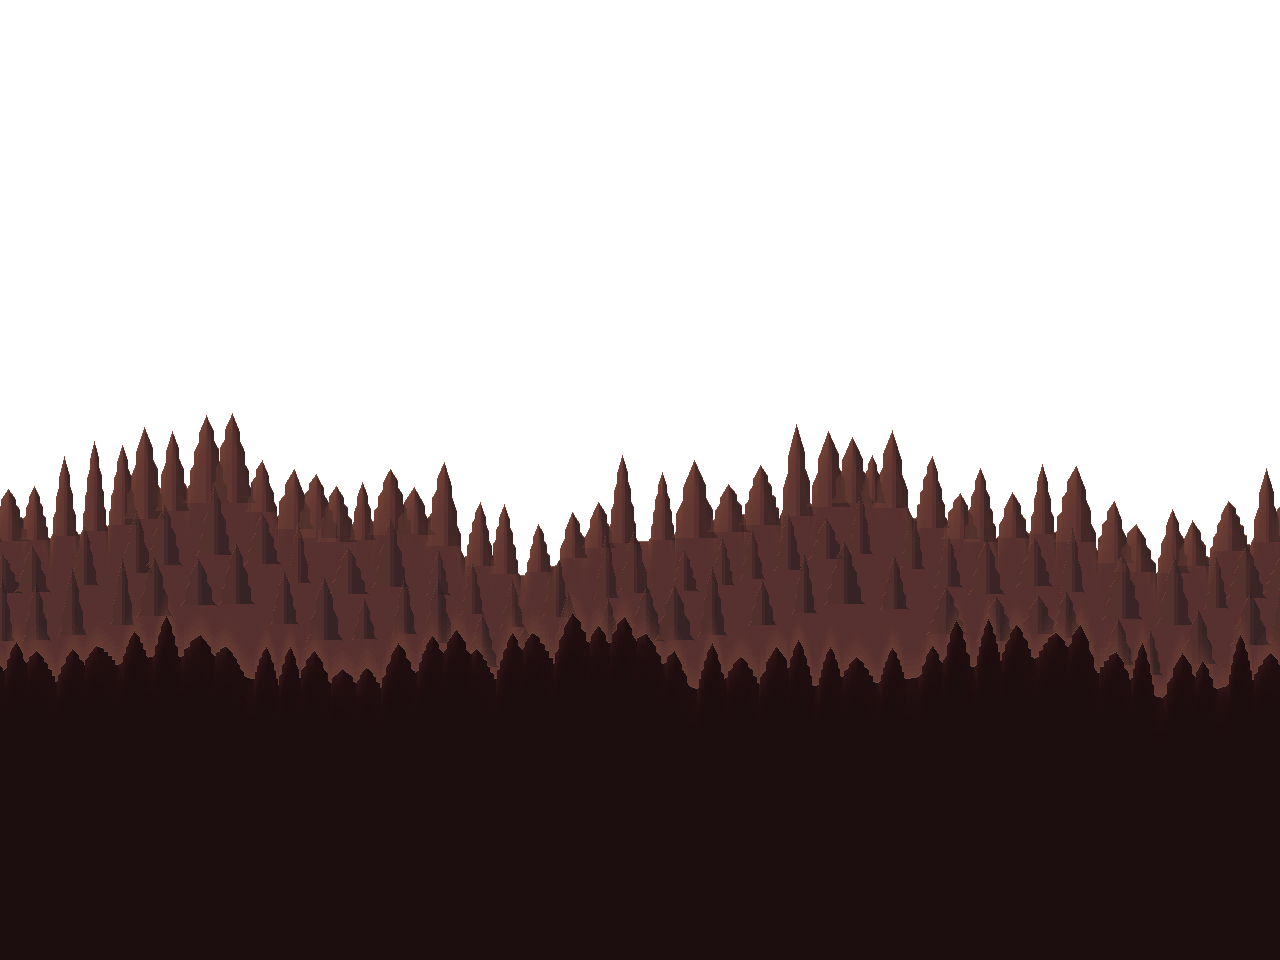
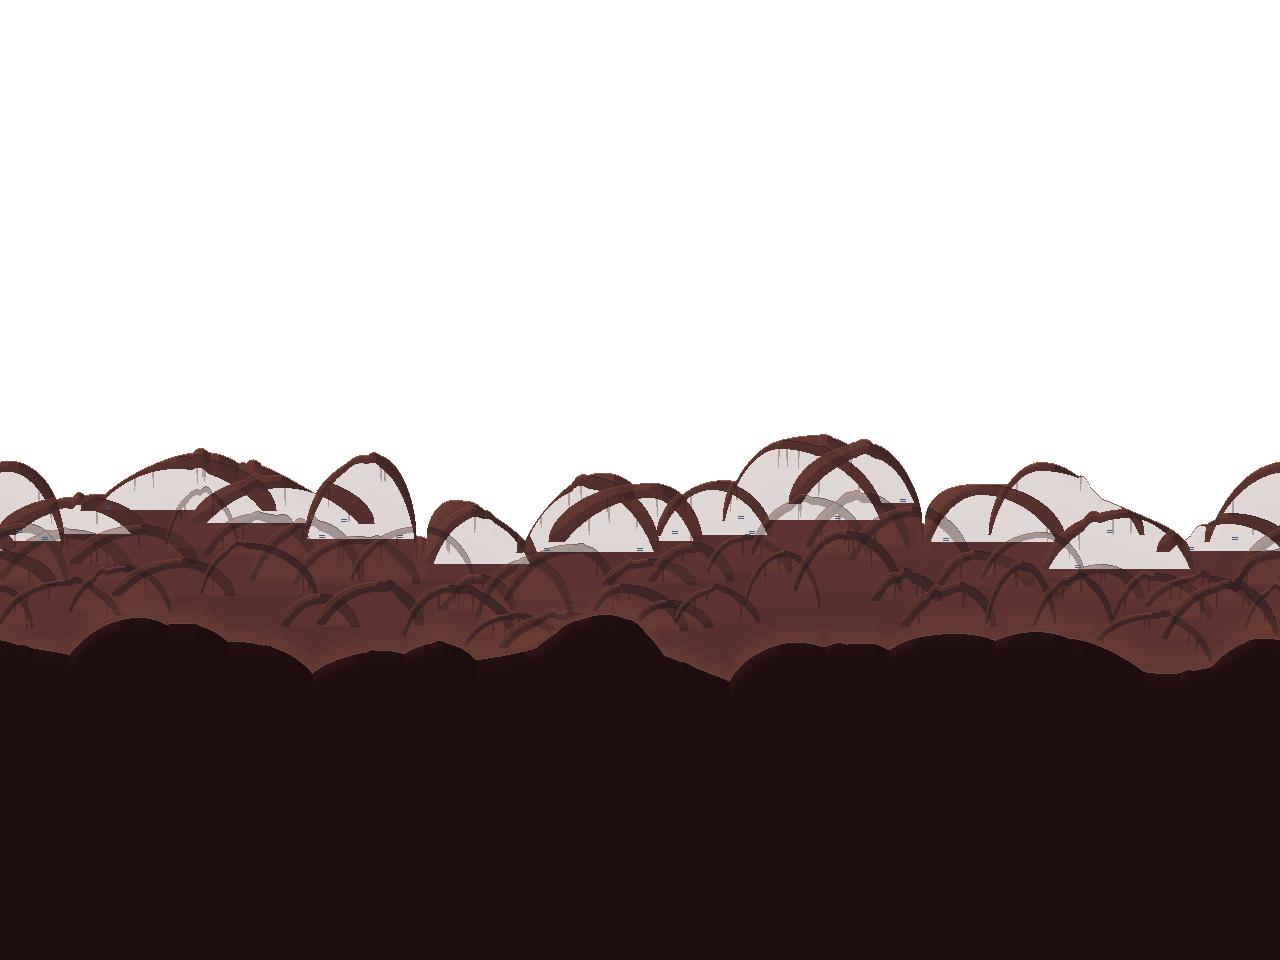
Pass 642: the Heartwood stands on roots of its own
The pass 640 grade saw the same pine band behind five areas: the Heartwood
shared the High Boughs' fir ridge. Its ridge is now a row of great arching
roots, the far layer showing through each arch, with two inner rows of
roots in depth and dim fungus at their feet (design bible 12.118).

Changed region(s): [[0.0, 0.4375, 1.0, 0.7188]]

diff --git a/tools/art/tilegen.py b/tools/art/tilegen.py
@@ -3406,7 +3406,9 @@ def foreground(zone):
 # crystal halls, broken crags over the stone towers, battlemented roofs over the
 # hearth towns, low mounds over the marsh springs.
 RIDGE_KIND = {
-    "heartwood": "fir", "boughs": "fir",
+    # The Heartwood stands on great arching roots of its own (pass 642, 12.118): it
+    # shared the High Boughs' firs, and the pass 640 grade saw one pine band behind both.
+    "heartwood": "root", "boughs": "fir",
     "haar": "mound", "sunken": "mound",
     "evercrown": "shard", "vorrhallow": "shard",
     "tower": "crag", "trials": "crag",
@@ -3630,6 +3632,141 @@ def _spire_span(rng, a, b, roll, roofs, whole):
     return {"form": "span", "deck": deck, "under": under, "solid": solid, "whole": whole}
 
 
+# The Heartwood's roots (bible 12.118, pass 642). The pass 640 grade saw "the same pine
+# band" behind five areas: the Heartwood, a hollow under one great tree, stood on the
+# High Boughs' firs. It now stands on a row of great roots, each arching out of the
+# ground and back in, broad at its buttressed feet and thin at its crown. The root is
+# darker than the plane and the far haze shows through the arch under it, with
+# rootlets hanging into it and fungus glowing at its feet; two inner rows of smaller
+# roots stand lower in the plane, each darker than the last.
+ROOT_HALF = (24, 52)    # an arch's half-width to each foot, px at 1x (each side its own)
+ROOT_PEAK = (18, 44)    # its crown's height above the ground
+ROOT_THICK = (4, 7)     # the root's thickness at the crown; its feet flare to more than twice that
+ROOT_STEP = (30, 56)    # from one arch to the next, so neighbours cross at the feet
+ROOT_FLARE = 1.6        # how much thicker a root grows toward its feet
+ROOT_BODY_A = (70, 120, 160)  # a root's body, the seam over the plane: the crest row, then the inner rows
+ROOT_ROW_DROP = (22 * D, 44 * D)  # the inner rows: how far below the ground line they stand
+ROOT_ROW_SCALE = 0.7    # their size, as a share of a crest root's
+ROOT_HAZE_A = 44        # the far haze in the arch under a root, in the rim
+ROOT_LIT_A = 90         # the west half of a root's back catches the light
+ROOTLET_A = 110         # the rootlets hanging into the arch, in the seam
+ROOT_SEE_A = 48         # the plane's alpha in the arch under a crest root: the far layer shows through
+
+
+def _root_crown(r, dx):
+    """A root arch's back, px above the ground at `dx` from its crown (-1 past its feet)."""
+    half = r["west"] if dx < 0 else r["east"]
+    k = abs(dx) / half
+    if k > 1:
+        return -1.0
+    return r["peak"] * (1 - k * k) ** 0.55 + r["knots"].get(dx, 0.0)
+
+
+def _root_under(r, dx):
+    """The underside of the arch at `dx`: the crown less the root's thickness, which
+    flares toward the feet (a buttress), never under the ground."""
+    half = r["west"] if dx < 0 else r["east"]
+    k = abs(dx) / half
+    return max(0.0, _root_crown(r, dx) - r["thick"] * (1 + ROOT_FLARE * k * k))
+
+
+def _root_make(cx, rng, scale=1.0):
+    r = {"form": "root", "x": cx, "west": int(rng.randint(*ROOT_HALF) * D * scale),
+         "east": int(rng.randint(*ROOT_HALF) * D * scale), "peak": int(rng.randint(*ROOT_PEAK) * D * scale),
+         "thick": max(2 * D, int(rng.randint(*ROOT_THICK) * D * scale)), "knots": {}}
+    for _ in range(rng.randint(0, 2)):
+        at, w, hgt = rng.randint(-r["west"] // 2, r["east"] // 2), rng.randint(3, 5) * D, rng.randint(1, 2) * D
+        for o in range(-w, w + 1):
+            r["knots"][at + o] = max(r["knots"].get(at + o, 0.0), hgt * (1 - (o / w) ** 2))
+    return r
+
+
+def _root_arch(teeth, cx, rng):
+    """A great root arching from the ground to its crown at `cx` and back, into `teeth`
+    (indices wrap); each side has its own reach, so it leans, and a knot or two swells
+    its back."""
+    r = _root_make(cx, rng)
+    for dx in range(-r["west"], r["east"] + 1):
+        v = _root_crown(r, dx)
+        if v >= 0:
+            i = (cx + dx) % BG_W
+            teeth[i] = max(teeth[i], v)
+    return r
+
+
+def _root_paint(img, r, foot, far_tops, near_tops, rim, seam, body_a, rng):
+    """One root standing on canvas row `foot`: its body in the seam, its west back lit,
+    the far haze in the arch under it, rootlets hanging into the arch."""
+    for dx in range(-r["west"], r["east"] + 1):
+        v = _root_crown(r, dx)
+        if v < 0:
+            continue
+        x = (r["x"] + dx) % BG_W
+        top, under = foot - int(round(v)), foot - int(round(_root_under(r, dx)))
+        lo = min(foot, near_tops[x] - 2 * D, BG_H)
+        for y in range(max(top, far_tops[x] + 1, 0), lo):
+            if not img.getpixel((x, y))[3]:
+                continue
+            if y > under:
+                _over(img, x, y, rim, ROOT_HAZE_A)
+                continue
+            _over(img, x, y, seam, body_a)
+            if dx < 0 and y < top + max(D, (under - top) // 2):
+                _over(img, x, y, rim, ROOT_LIT_A)
+        if far_tops[x] < top < lo and img.getpixel((x, top))[3]:
+            _over(img, x, top, rim if dx < 0 else seam, 170)
+        if under < lo and hash2(x // D, r["x"], 78) > 0.94:
+            for y in range(under + 1, min(lo, under + 1 + rng.randint(3, 9) * D)):
+                _over(img, x, y, seam, ROOTLET_A)
+
+
+def _root_detail(img, roots, ground, far_tops, near_tops, rim, seam, light, rng):
+    """The roots in the far plane (12.118): the crest's roots, then two inner rows of
+    smaller ones lower and darker, and fungus glowing at a foot or two. Only inside
+    the plane, under its crest and above the valley mist."""
+    rows = [[(r, RIDGE_BASE - int(round(ground[r["x"] % BG_W]))) for r in roots]]
+    for drop in ROOT_ROW_DROP:
+        row, x = [], rng.randint(0, 20) * D
+        while x < BG_W:
+            row.append((_root_make(x, rng, ROOT_ROW_SCALE), RIDGE_BASE - int(round(ground[x % BG_W])) + drop))
+            x += int(rng.randint(*ROOT_STEP) * D * ROOT_ROW_SCALE)
+        rows.append(row)
+    # Under a crest root's arch the plane thins, so the far layer shows through it,
+    # except where another root's body crosses the arch.
+    body, hollow = [set() for _ in range(BG_W)], [set() for _ in range(BG_W)]
+    for r, foot in rows[0]:
+        for dx in range(-r["west"], r["east"] + 1):
+            v = _root_crown(r, dx)
+            if v < 0:
+                continue
+            x = (r["x"] + dx) % BG_W
+            top, under = foot - int(round(v)), foot - int(round(_root_under(r, dx)))
+            body[x].update(range(top, under + 1))
+            hollow[x].update(range(under + 1, foot))
+    for x in range(BG_W):
+        for y in hollow[x] - body[x]:
+            if far_tops[x] < y < near_tops[x] - 2 * D and 0 <= y < BG_H:
+                p = img.getpixel((x, y))
+                if p[3]:
+                    img.putpixel((x, y), p[:3] + (min(p[3], ROOT_SEE_A),))
+    for k, row in enumerate(rows):
+        for r, foot in row:
+            _root_paint(img, r, foot, far_tops, near_tops, rim, seam, ROOT_BODY_A[k], rng)
+    if not light:
+        return
+    for r, foot in rows[0]:
+        for side in (-1, 1):
+            if rng.random() < 0.4:
+                continue
+            half = r["west"] if side < 0 else r["east"]
+            fx = r["x"] + side * int(half * rng.uniform(0.5, 0.75))
+            fy = foot - D
+            if far_tops[fx % BG_W] + 6 * D < fy < near_tops[fx % BG_W] - 2 * D:
+                for xx in range(fx - D, fx + 2 * D):
+                    _over(img, xx, fy, light, 230)
+                    _over(img, xx, fy - D, light, 230)
+
+
 def _ridge_profile(kind, rng, houses=None, ground=None):
     """The crest height (canvas px above RIDGE_BASE) per column: a rolling
     baseline with the zone's teeth raised onto it, seamless across the seam.
@@ -3654,6 +3791,12 @@ def _ridge_profile(kind, rng, houses=None, ground=None):
             if houses is not None:
                 houses.append({"form": "fir", "x": x, "half": half, "peak": peak, "tiers": tiers})
             x += rng.randint(10, 20) * D
+        elif kind == "root":
+            # A great root arching out of the ground and back in (pass 642, 12.118).
+            root = _root_arch(teeth, x, rng)
+            if houses is not None:
+                houses.append(root)
+            x += rng.randint(*ROOT_STEP) * D
         elif kind == "shard":
             _tri(teeth, x, rng.randint(4, 9) * D, rng.randint(26, 54) * D, lean=rng.randint(-4, 4) * D)
             x += rng.randint(12, 24) * D
@@ -3712,7 +3855,7 @@ RIDGE_FACE_A = 96
 # woods, mounds and crags as one-value cutouts: past the thin lit faces each plane was
 # a single colour. Now the upper slopes catch the sky and fade, each east face falls
 # into shadow, and the woods are rows of trees, each lit on its west flank.
-RIDGE_FORMED = ("fir", "mound", "shard", "crag")
+RIDGE_FORMED = ("fir", "mound", "shard", "crag", "root")
 RIDGE_SKY = 26 * D             # how far the sky's light reaches below a crest
 RIDGE_SKY_A = (78, 46)         # its alpha at the crest, on the far plane and the near one
 RIDGE_SHADE = 8 * D            # how far an east face's shadow reaches below its crest
@@ -3731,6 +3874,8 @@ RIDGE_FOLD_SKY_A = 90
 RIDGE_LIGHT = {
     "hearthroot": "gold-2", "spires": "ember-2", "tower": "ember-2", "trials": "gold-2",
     "vorrhallow": "crystal-2", "evercrown": "crystal-2",
+    # Glowing fungus in the hollows under the Heartwood's roots (12.118).
+    "heartwood": "sky-2",
 }
 
 
@@ -4088,6 +4233,9 @@ def _ridge_detail(img, zone, far_h, near_tops, rng, houses=None, ground=None):
         return
     if kind == "spire":
         _spire_detail(img, houses or [], ground, far_h, far_tops, near_tops, rim, seam, light)
+        return
+    if kind == "root":
+        _root_detail(img, houses or [], ground, far_tops, near_tops, rim, seam, light, rng)
         return
     if kind == "fir":
         _fir_detail(img, houses or [], ground, far_tops, rim, seam, rng)

diff --git a/tools/art/test_tilegen.py b/tools/art/test_tilegen.py
@@ -652,7 +652,31 @@ def test_a_fir_on_the_crest_is_tiered():
         tg._fir(teeth, 200, 20, 60, tiers)
         steps = sum(1 for i in range(1, tg.BG_W) if abs(teeth[i] - teeth[i - 1]) >= 2 * 60 / 20)
         assert steps >= 2 * (tiers - 1), f"a {tiers}-tier fir steps only {steps} times"
-    assert tg.RIDGE_KIND["heartwood"] == tg.RIDGE_KIND["boughs"] == "fir"
+    assert tg.RIDGE_KIND["boughs"] == "fir"
+
+
+def test_the_heartwood_stands_on_roots_of_its_own():
+    # The pass 640 grade saw "the same pine band" behind five areas: the Heartwood
+    # stood on the High Boughs' firs. Its ridge is a row of great roots (bible 12.118,
+    # pass 642): each arches out of the ground and back in, thicker at its feet than its
+    # crown, the far layer shows through the arch under a crest root, and two inner
+    # rows of roots stand lower in the plane. (Giving it the firs back fails the first
+    # check; a root without its flare, the second; a filled arch, the third.)
+    import random
+    assert tg.RIDGE_KIND["heartwood"] == "root" != tg.RIDGE_KIND["boughs"], "the Heartwood has a ridge of its own"
+    roots = []
+    tg._ridge_profile("root", random.Random(sum(ord(ch) for ch in "heartwood") + 1300), roots)
+    assert len(roots) >= 12, f"only {len(roots)} roots on the crest"
+    for r in roots:
+        crown = r["peak"] - tg._root_under(r, 0)
+        feet = [tg._root_crown(r, dx) - tg._root_under(r, dx) for dx in (-r["west"] * 3 // 4, r["east"] * 3 // 4)]
+        assert min(feet) > crown * 1.5, f"a root's feet ({feet}) flare from its crown ({crown})"
+        assert tg._root_under(r, 0) > 0, "and arch over open ground"
+    assert len({(r["west"], r["east"]) for r in roots}) > len(roots) // 2, "the roots lean their own ways"
+    img = tg.ridge("heartwood")
+    a = img.getchannel("A").load()
+    thin = sum(1 for x in range(0, tg.BG_W, 2) if any(0 < a[x, y] < tg.RIDGE_A // 2 for y in range(tg.RIDGE_BASE - 60 * tg.D, tg.RIDGE_BASE + 30 * tg.D)))
+    assert thin > tg.BG_W // 2 * 0.4, f"the far layer shows through the arches in only {thin} columns"
 
 
 def test_a_leaning_shard_has_no_gaps():

diff --git a/docs/design-bible.md b/docs/design-bible.md
@@ -1782,7 +1782,7 @@ Still open from Sean's lighting/depth request after pass 510: **rim light on fig
 
 The "more parallax layers" piece of Sean's 2026-11-07 lighting/depth request: a third painted back layer between `far` and `mid`, so the parallax recedes through three depths instead of two and the play field reads clear of the backdrop (the independent grade's recurring "depth collapse").
 
-`tools/art/tilegen.py` paints one `<zone>_ridge.png` per shipped zone with a single parametrized painter (like the foreground, 12.11): a seamless rolling ridgeline filled from the horizon (`RIDGE_BASE`, canvas y = 0.56·height) down, over a transparent sky, whose crest profile is the zone's distant material (`RIDGE_KIND`) — **firs** (Heartwood, the High Boughs), **low mounds** (the Haar, the Sunken Spring), **crystal shards** (the Evercrown, Vorrhallow), **broken crags** (the Tower, the Trials) and **a town's roofs** (Hearthroot: battlemented blocks until pass 617, since then gables, hips, lean-tos and towers, 12.94; the Spires shared them until pass 601, when they took a row of **ruined spires**, 12.84, which since pass 622 are needles, crowns, sheared towers and keeps joined by bridges on a terraced hill, 12.98). The silhouette is a dark shade of each zone's dominant ramp with a one-step-lighter crest rim (`RIDGE_COLOR`), so a warm hearth and a cold spring never share one ridge; the roll is built from whole-cycle sines and the teeth wrap at the seam, so the layer tiles sideways with no join. (Since pass 598 the ground below the crest is two planes under valley mist, with lit faces and each zone's distant detail: 12.83; since pass 635 the woods, hills, crystal and crags have forms in it, 12.111.)
+`tools/art/tilegen.py` paints one `<zone>_ridge.png` per shipped zone with a single parametrized painter (like the foreground, 12.11): a seamless rolling ridgeline filled from the horizon (`RIDGE_BASE`, canvas y = 0.56·height) down, over a transparent sky, whose crest profile is the zone's distant material (`RIDGE_KIND`) — **firs** (the High Boughs, and the Heartwood until pass 642, when it took a row of **great roots**, 12.118), **low mounds** (the Haar, the Sunken Spring), **crystal shards** (the Evercrown, Vorrhallow), **broken crags** (the Tower, the Trials) and **a town's roofs** (Hearthroot: battlemented blocks until pass 617, since then gables, hips, lean-tos and towers, 12.94; the Spires shared them until pass 601, when they took a row of **ruined spires**, 12.84, which since pass 622 are needles, crowns, sheared towers and keeps joined by bridges on a terraced hill, 12.98). The silhouette is a dark shade of each zone's dominant ramp with a one-step-lighter crest rim (`RIDGE_COLOR`), so a warm hearth and a cold spring never share one ridge; the roll is built from whole-cycle sines and the teeth wrap at the seam, so the layer tiles sideways with no join. (Since pass 598 the ground below the crest is two planes under valley mist, with lit faces and each zone's distant detail: 12.83; since pass 635 the woods, hills, crystal and crags have forms in it, 12.111.)
 
 `Backdrop` draws it like the other back layers, between `far` and `mid`:
 
@@ -3072,6 +3072,21 @@ The pass 640 grade: "the deep water still a flat teal slab (strengthen the mirro
 The swimmer wavers with the water by a pixel at most; the eels' tells are unchanged and read as before. Judged by eye at 1x and 3x in all four rooms of the Sunken Spring, before and after. `test_stone_in_the_water_takes_its_tone`, `test_everything_under_the_surface_wavers`, `test_a_shallow_pool_mirrors_one_row` and `test_the_deep_water_mirrors_what_stands_over_it` (`tests/test_water_edge.gd`) hold it.
 
 - **Not done here.** Light shafts through the deep water are still left for a later pass (12.116).
+
+### 12.118 The Heartwood stands on roots of its own (pass 642)
+
+The pass 640 grade: "the same pine band and trunk columns behind five areas". The Heartwood, a hollow under one great tree, shared the High Boughs' distant ridge of firs (12.12, 12.111), so a band of pines stood behind both, and in the Heartwood they made no sense under a roof of roots.
+
+The Heartwood's ridge (`RIDGE_KIND` "root", `tools/art/tilegen.py`) is now a row of great roots:
+
+- **The crest.** Each root arches out of the ground to its crown and back in (`_root_arch`), each side with its own reach (`ROOT_HALF` 24 to 52 px), so it leans, 18 to 44 px high (`ROOT_PEAK`), with a knot or two swelling its back. It is 4 to 7 px thick at the crown (`ROOT_THICK`) and flares toward its feet (`ROOT_FLARE`), so it stands on buttresses. Neighbours (`ROOT_STEP` 30 to 56 px apart) cross at the feet.
+- **Through the arch.** Under a crest root the plane thins to `ROOT_SEE_A` (48), so the far layer shows through the arch, except where another root's body crosses it.
+- **In the far plane** (`_root_detail`). Each root's body is laid in the seam, darker than the plane, its west back lit and its edge lit on the west and dark on the east; the far haze lies in the arch under it, and rootlets hang into it. Two inner rows of smaller roots (`ROOT_ROW_SCALE` 0.7) stand 22 and 44 px lower (`ROOT_ROW_DROP`), each darker than the last, so the plane is a tangle of roots in depth. Fungus glows dim cyan (`sky-2`, `RIDGE_LIGHT`) at a foot or two.
+- The nearer plane (12.83) repeats the roots lower and darker as a silhouette. The High Boughs keep their firs.
+
+Judged by eye at 1x and 2x in the Heartwood's rooms, over the far layer and through the haze. `test_the_heartwood_stands_on_roots_of_its_own` (`tools/art/test_tilegen.py`) holds it.
+
+- **Not done here.** The grade's "trunk columns": the full-height columns in the far layers of the Heartwood (its fibres), Vorrhallow (its pillars) and the Tower (its shafts) still read as one band of vertical bars; and no foreground layer frames the rooms.
 
 ## 13. Asset Production Plan
 

diff --git a/docs/loop/pass-642.md b/docs/loop/pass-642.md
@@ -1,0 +1,92 @@
+# Pass 642: the Heartwood stands on roots of its own
+
+## Category
+
+Art cohesion and environments. The top item of the queue, from the pass 640 grade: "the same
+pine band and trunk columns behind five areas, and no foreground layer framing the rooms".
+
+No note from Sean was new. The PixelLab art loop stays **gated** on Sean: three guardian bases
+(Haar Wyrm, Thane Vorrund, Drowned Warden) wait for his OK, the limit of three. No PixelLab
+generations were spent, and no Autosprite credits. README's playtest link already points at
+https://github.com/sagedragoon79/Yldenfall.
+
+## Audit
+
+- **The pine band.** In the grade's spread, the same band of tiered firs stood behind the
+  Heartwood's two rooms and the High Boughs' bridge: both zones had the ridge kind "fir"
+  (12.12, 12.111). The High Boughs are a canopy wood, so firs belong there; the Heartwood is a
+  hollow under one great tree, roofed with roots, and a pine forest on its horizon made no sense.
+- **The trunk columns.** The Heartwood's far fibres, Vorrhallow's far pillars and the Tower's far
+  shafts are all full-height vertical bars, and read as one band across three zones. Left for a
+  later pass (see Next).
+
+## What was built
+
+Design bible 12.118, in `tools/art/tilegen.py`.
+
+- **A ridge of great roots.** The Heartwood's ridge kind is "root": a row of roots, each arching
+  out of the ground to its crown and back in, leaning (each side its own reach), with a knot or
+  two on its back, thin at the crown and flared into buttresses at its feet. Neighbours cross at
+  the feet.
+- **Through the arch.** Under a crest root the plane thins to alpha 48, so the far layer shows
+  through the arch.
+- **A tangle in depth.** Each root's body is laid darker than the plane, lit on its west back;
+  the far haze lies in its arch, and rootlets hang into it. Two inner rows of smaller roots stand
+  lower in the plane, each darker. Dim cyan fungus glows at a foot or two.
+
+Thrown out on the way:
+
+- **Hollows darker than the plane.** The first try filled the space under each arch with the
+  seam: every root became a dark dome with a lit rim, and the row read as huts with doors. The
+  root is now the dark thing, and the arch is the far haze.
+- **A half-thinned arch** (alpha 120). The arches read as glassy domes over the far layer.
+  Thinned to 48 they read open.
+
+## Checked by eye
+
+At 1x and 2x in `heartwood/entrance` and `hollow_02`, before and after (after a Godot reimport:
+the first shot showed the old firs from the import cache). The far band is a tangle of arching
+roots under the hall's roof of roots, and the High Boughs keep their firs.
+
+## Tests
+
+`test_the_heartwood_stands_on_roots_of_its_own` in `tools/art/test_tilegen.py`;
+`test_a_fir_on_the_crest_is_tiered` now asks only the High Boughs for firs.
+
+| Mutation | Result |
+| --- | --- |
+| the Heartwood given the firs back | fails (a ridge of its own) |
+| no flare at the feet | fails (the feet flare) |
+| the arch filled (no thinning) | fails (the far layer shows through in 0 columns; the check reads half the plane's alpha, not the thinning's own constant, which this mutation would move with it) |
+| every root the same reach each side | fails (the roots lean their own ways) |
+| a root with no arch (its underside on the ground) | fails (1 check) |
+
+## Full suite
+
+FULLSUITE
+
+## Rubric (design bible 15.3)
+
+| Category | Weight | Score | Notes |
+| --- | --- | --- | --- |
+| Movement feel | 20 | 99 | Unchanged. |
+| Combat and enemies | 15 | 99 | Unchanged. |
+| World and level design | 15 | 99 | Unchanged. |
+| Art cohesion | 15 | 98 | The Heartwood's horizon is a tangle of great roots of its own, not the High Boughs' pines. The trunk columns, the town's skyline, the fog and the Haar's dither stay. |
+| Bosses | 10 | 99 | Unchanged. |
+| Systems | 10 | 99 | Unchanged. |
+| Audio | 5 | 99 | Unchanged. |
+| Stability and performance | 5 | 99 | Unchanged (a baked picture). |
+| Story and world | 5 | 99 | Unchanged. |
+
+Weighted: 98.85.
+
+## Next
+
+The rest of the pass 640 grade's first item: the trunk columns (the far layers of the Heartwood,
+Vorrhallow and the Tower are all full-height vertical bars) and no foreground layer framing the
+rooms. Then: foes in two styles (the knight's grey-green blends in); set dressing pasted on
+(crystals, the tree through the shrine gate, identical islands); spikes that read as grass or
+railings; light as additive circles; ground strip tiling. Held as before: the Haar's fog and
+dither, the sword's slab and the hero's attack pose, the hero's size, the shop portrait. The
+next independent grade is due after pass 645.
